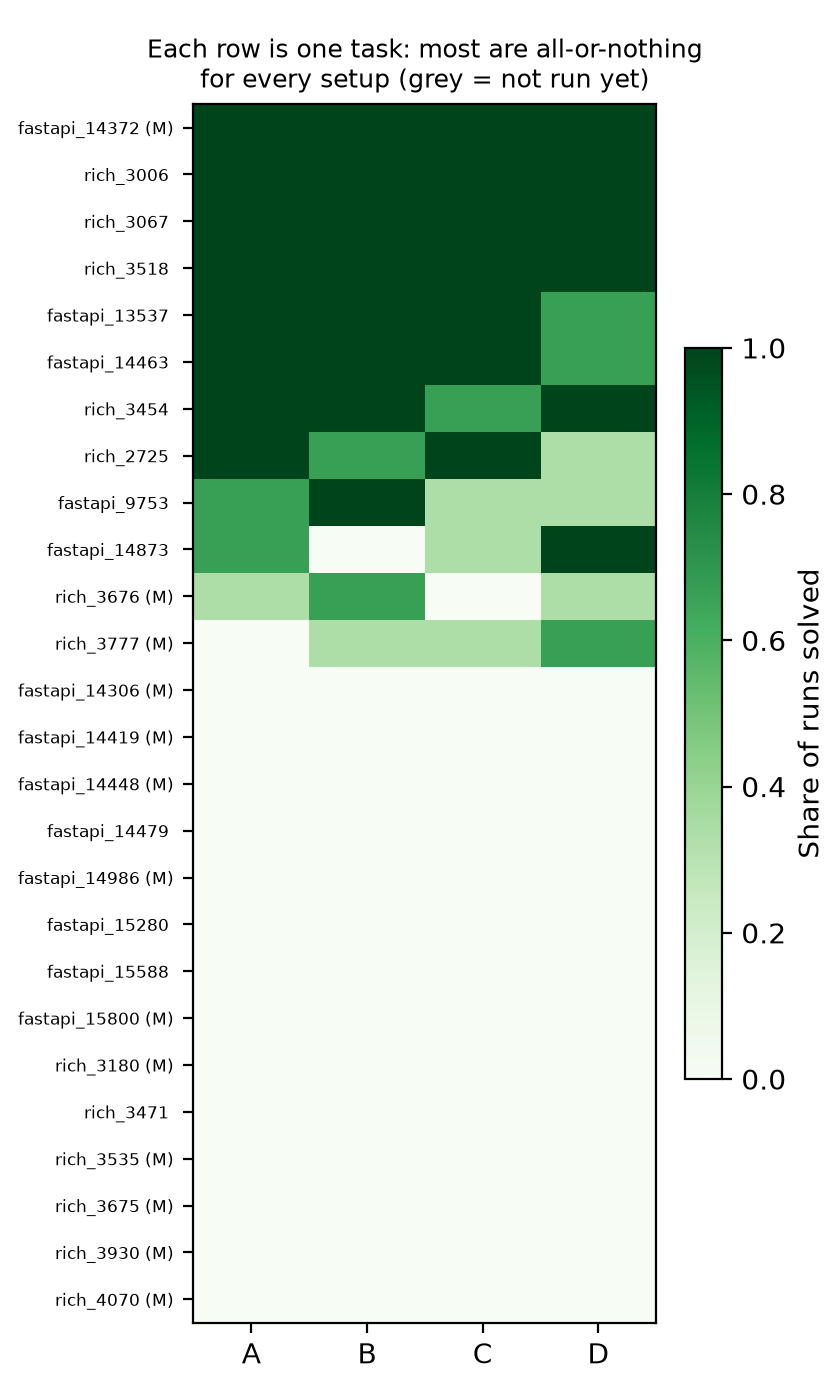
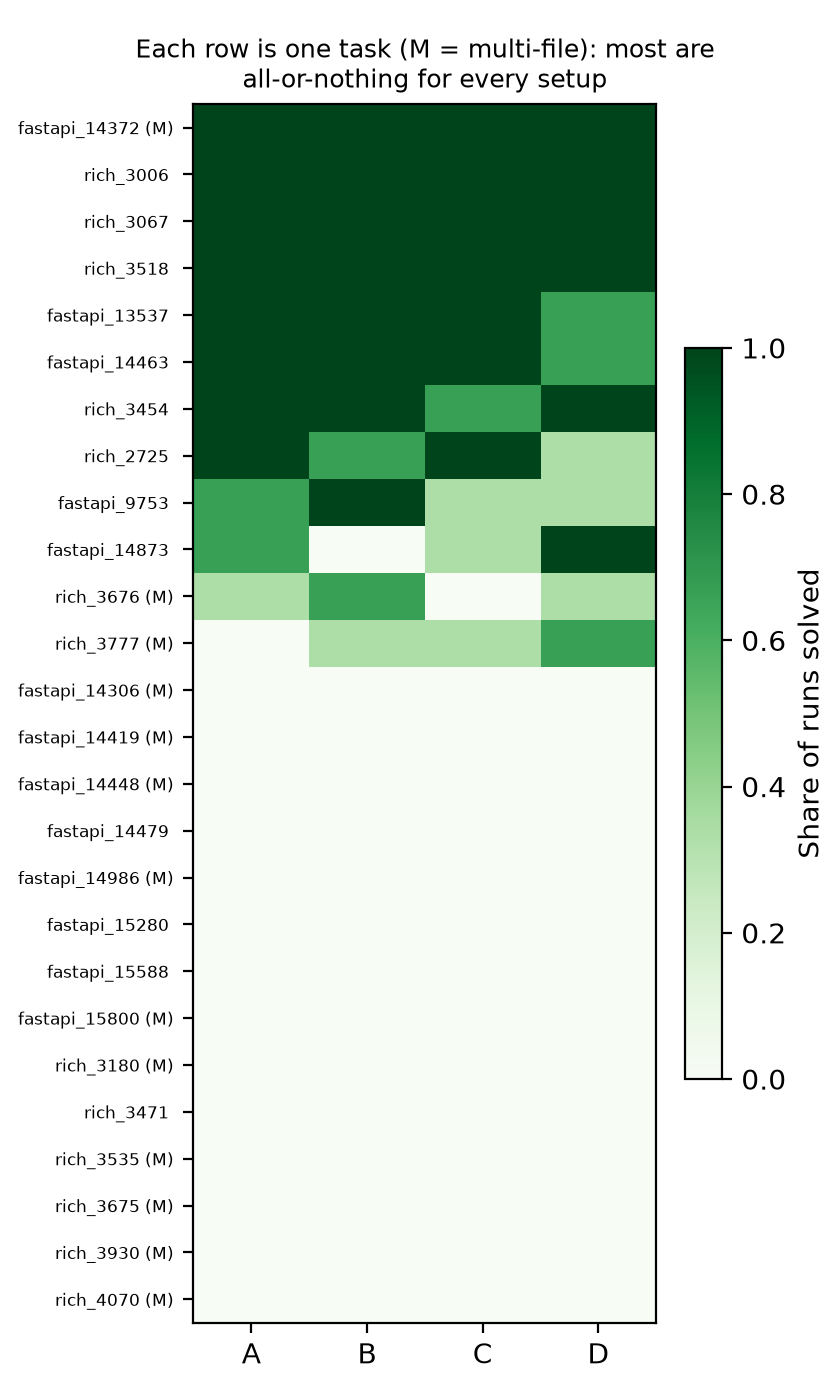
Fig 2 title: drop stale note, label M = multi-file

Changed region(s): [[0.1548, 0.0307, 0.8357, 0.0614]]

diff --git a/analysis/week5_results.py b/analysis/week5_results.py
@@ -271,7 +271,8 @@ def figures(rows, setups, runs, resolved, attempts, per_task, fails, out):
     ax.set_yticks(range(len(per_task)), [f"{t} {'(M)' if g == 'Multi-file' else ''}" for t, g, *_ in per_task],
                   fontsize=6)
     fig.colorbar(im, ax=ax, label="Share of runs solved", shrink=0.6)
-    ax.set_title("Each row is one task: most are all-or-nothing\nfor every setup (grey = not run yet)", fontsize=9)
+    grey = " (grey = not run)" if any(v != v for row in data for v in row) else ""
+    ax.set_title("Each row is one task (M = multi-file): most are\nall-or-nothing for every setup" + grey, fontsize=9)
     fig.tight_layout()
     fig.savefig(out / "fig2_per_task.png", dpi=200)
     plt.close(fig)
